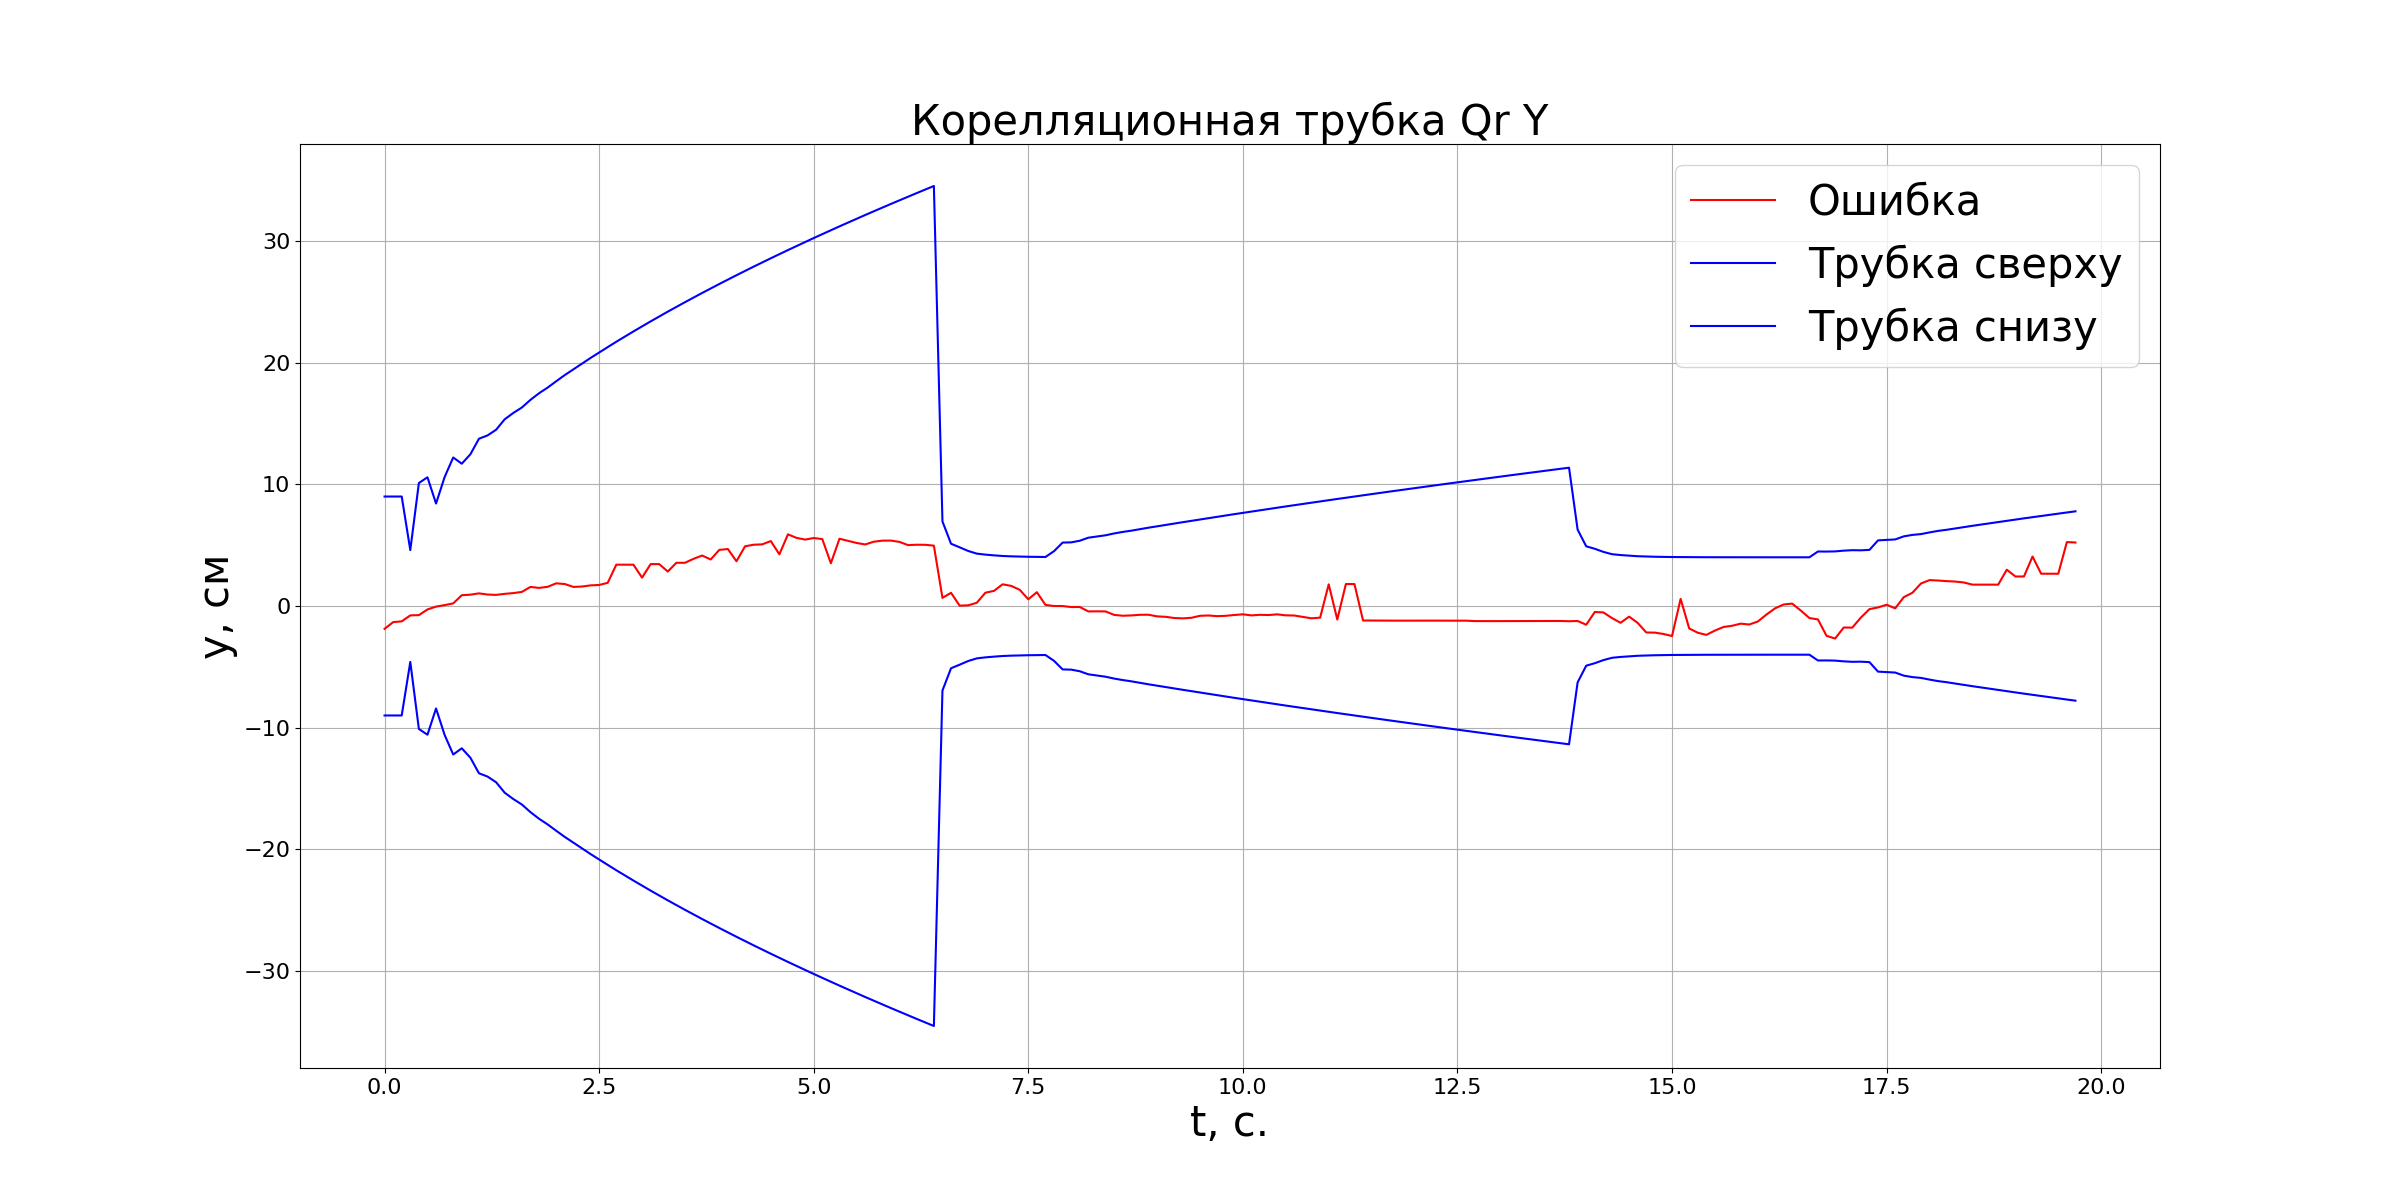
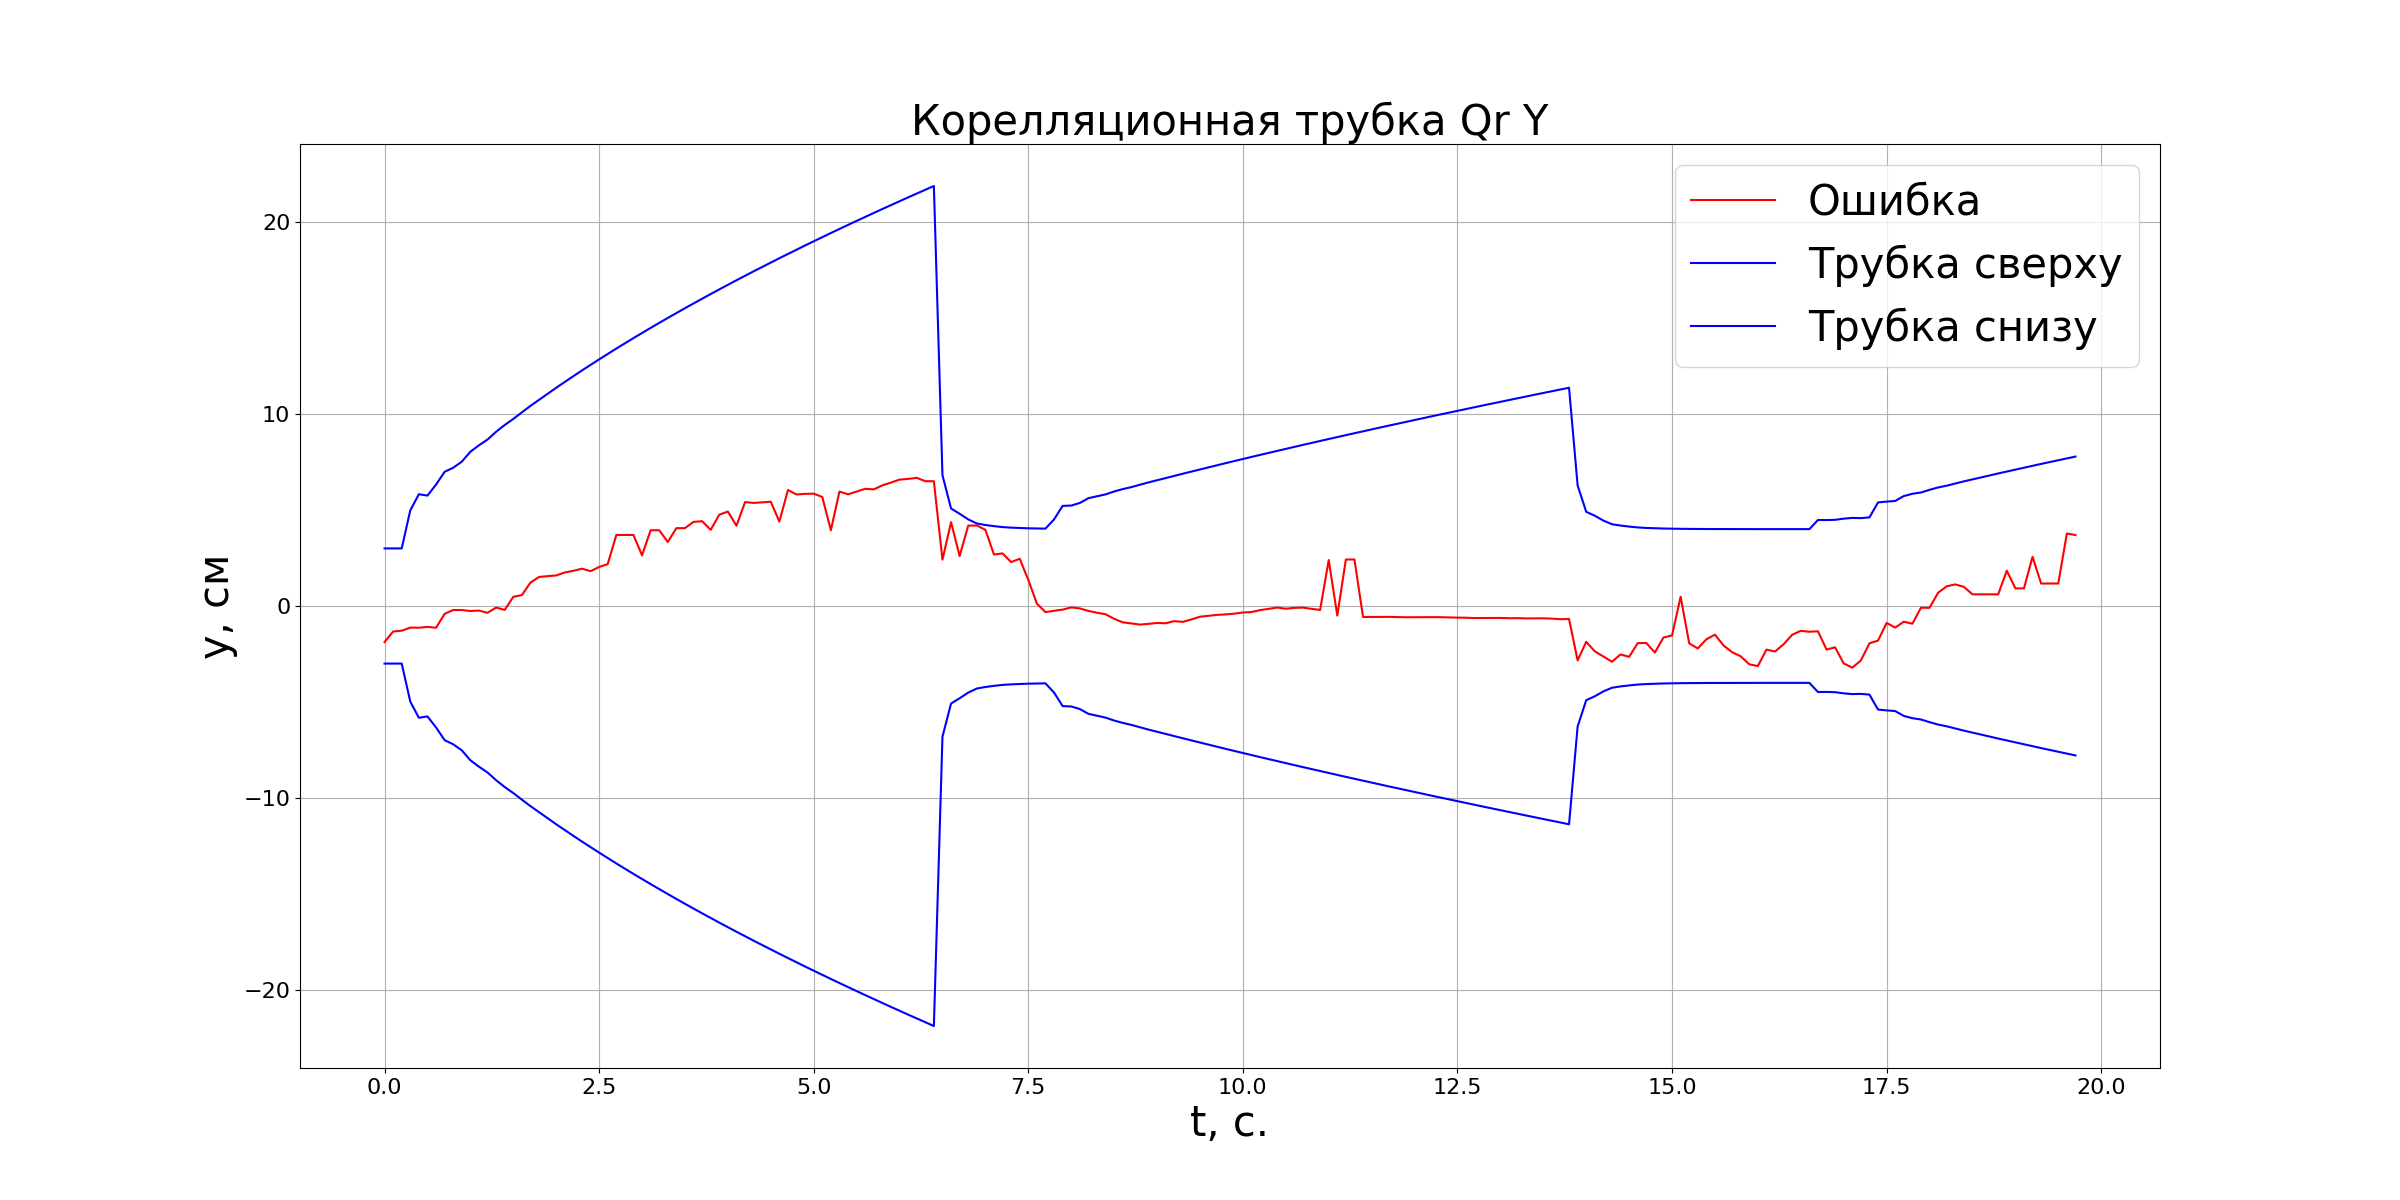
Up

diff --git a/Model.py b/Model.py
@@ -134,13 +134,13 @@ class Model:
 
 
         #если занято с обоих сторон, то поворачиваем направо
-        # elif (d1<30) and (d3<30) and (d2<30) :
-        #     dwz=0
-        #     #while (self.dw>self.dw*currentT):
-        #     dwz+=self.dw*dt
-        #     currentT=dt
-        #         #currentT+=dt
-        #     c=0
+        elif (d1<30) and (d3<30) and (d2<30) :
+            dwz=0
+            #while (self.dw>self.dw*currentT):
+            dwz+=self.dw*dt
+            currentT=dt
+                #currentT+=dt
+            c=0
 
         return c,dwz,currentT
 
@@ -284,18 +284,18 @@ class Model:
             metka=""
             if len(Detected)!=0:
                 for qr in Detected:
-                    __qrx+=qr[0]+random.normal(0,3)
-                    __qry+=qr[1]+random.normal(0,3)
+                    __qrx+=qr[0]+np.random.normal(0,3)
+                    __qry+=qr[1]+np.random.normal(0,3)
                 __qrx=__qrx/len(Detected)
                 __qry=__qry/len(Detected)
                 metka="qr"
             else:
                 metka="bins"
 
-            __x=self.__x+t0*10+random.normal(0,0.1)
-            __y=self.__y+t0*10+random.normal(0,0.1)
+            __x=self.__x+t0*10+np.random.normal(0,0.1)
+            __y=self.__y+t0*10+np.random.normal(0,0.1)
                     
-            __wz=self.__wz+random.normal(0,0.07)
+            __wz=self.__wz+np.random.normal(0,0.07)
             __d1=resultD1
             __d2=resultD2
             __d3=resultD3
@@ -334,14 +334,14 @@ class Model:
                 [0.,0.,0.,0.,1.,0.,0, 0., 0],
                 [0.,0.,0.,0.,0.,1.,0, 0., 0],
 
-                [0.5/(t/dt)/dt,0,0.,0.,-0.5/(t/dt)/dt,0.,0, 0.5, 0],
-                [0.,0.5/(t/dt)/dt,0.,0.,0.,-0.5/(t/dt)/dt,0, 0., 0.5],
+                [0.5/t,0,0.,0.,-0.5/t,0.,0, 0.5, 0],
+                [0.,0.5/t,0.,0.,0.,-0.5/t,0, 0., 0.5],
                 ],dtype=float)
 
     
         De=np.asarray([
-            [dt,0,0,0,0,0,0,0,0],
-            [0,dt,0,0,0,0,0,0,0],
+            [0.3,0,0,0,0,0,0,0,0],
+            [0,0.3,0,0,0,0,0,0,0],
             [0,0,(0.5*np.pi*dt)**2,0,0,0,0,0,0],
             [0,0,0,(15*dt)**2,0,0,0,0,0],
             [0,0,0,0,(15*dt)**2,0,0,0,0],
@@ -350,7 +350,7 @@ class Model:
             [0,0,0,0,0,0,0,0,0],
             [0,0,0,0,0,0,0,0,0],
         ])
-
+ 
         self.__x_p[0]=self.__x_c[0]+U[0]*cos(self.__x_c[2]+U[1])*dt
         self.__x_p[1]=self.__x_c[1]+U[0]*sin(self.__x_c[2]+U[1])*dt
         self.__x_p[2]=self.__x_c[2]+U[1]
@@ -362,8 +362,8 @@ class Model:
         self.__x_p[6]=self.__x_c[6]+U[0]*sin(self.__x_c[2]+U[1])*dt
 
         
-        self.__x_p[7]=(self.__x_c[7]+(self.__x_c[0]-self.__x_c[5])/(t/dt)/dt)/2.
-        self.__x_p[8]=(self.__x_c[8]+(self.__x_c[1]-self.__x_c[6])/(t/dt)/dt)/2.
+        self.__x_p[7]=(self.__x_c[7]+(self.__x_c[0]-self.__x_c[5])/t)/2.
+        self.__x_p[8]=(self.__x_c[8]+(self.__x_c[1]-self.__x_c[6])/t)/2.
 
 
 
@@ -408,15 +408,15 @@ class Model:
         self.__x_p[8]=0
      
 
-        self.__p_p[0][0]=9
-        self.__p_p[1][1]=9
+        self.__p_p[0][0]=1
+        self.__p_p[1][1]=1
         self.__p_p[2][2]=1
-        self.__p_p[3][3]=9
-        self.__p_p[4][4]=9
-        self.__p_p[5][5]=9
-        self.__p_p[6][6]=9
-        self.__p_p[7][7]=9
-        self.__p_p[8][8]=9
+        self.__p_p[3][3]=1
+        self.__p_p[4][4]=1
+        self.__p_p[5][5]=1
+        self.__p_p[6][6]=1
+        self.__p_p[7][7]=50
+        self.__p_p[8][8]=50
    
         
         index=0

diff --git a/Main.py b/Main.py
@@ -219,15 +219,15 @@ plt.rc('axes', labelsize=30)
 plt.rc('axes',titlesize=30)
 plt.rc('legend', fontsize=30)
 plt.tick_params(axis='both', which='major', labelsize=16)
-plt.title("Корелляционная трубка Alpha") # заголовок
+plt.title("Корелляционная трубка Курса") # заголовок
 plt.xlabel("t, с.") # ось абсцисс
-plt.ylabel("alpha, градусов.") # ось ординат
+plt.ylabel("Wz, градусов.") # ось ординат
 plt.grid()      # включение отображение сетки
 plt.plot(t, np.asarray(a)-np.asarray(afk),'r',label="Ошибка")  # построение графика
 plt.plot(t, np.sqrt(p_a)*3,'b',label="Трубка сверху")  # построение графика
 plt.plot(t, -np.sqrt(np.asarray(p_a))*3,'b',label="Трубка снизу")  # построение графика
 plt.legend(loc=0)
-plt.savefig('Корелляционная трубка Alpha')
+plt.savefig('Корелляционная трубка Курса')
 
 
 plt.figure(figsize=(24,12))
